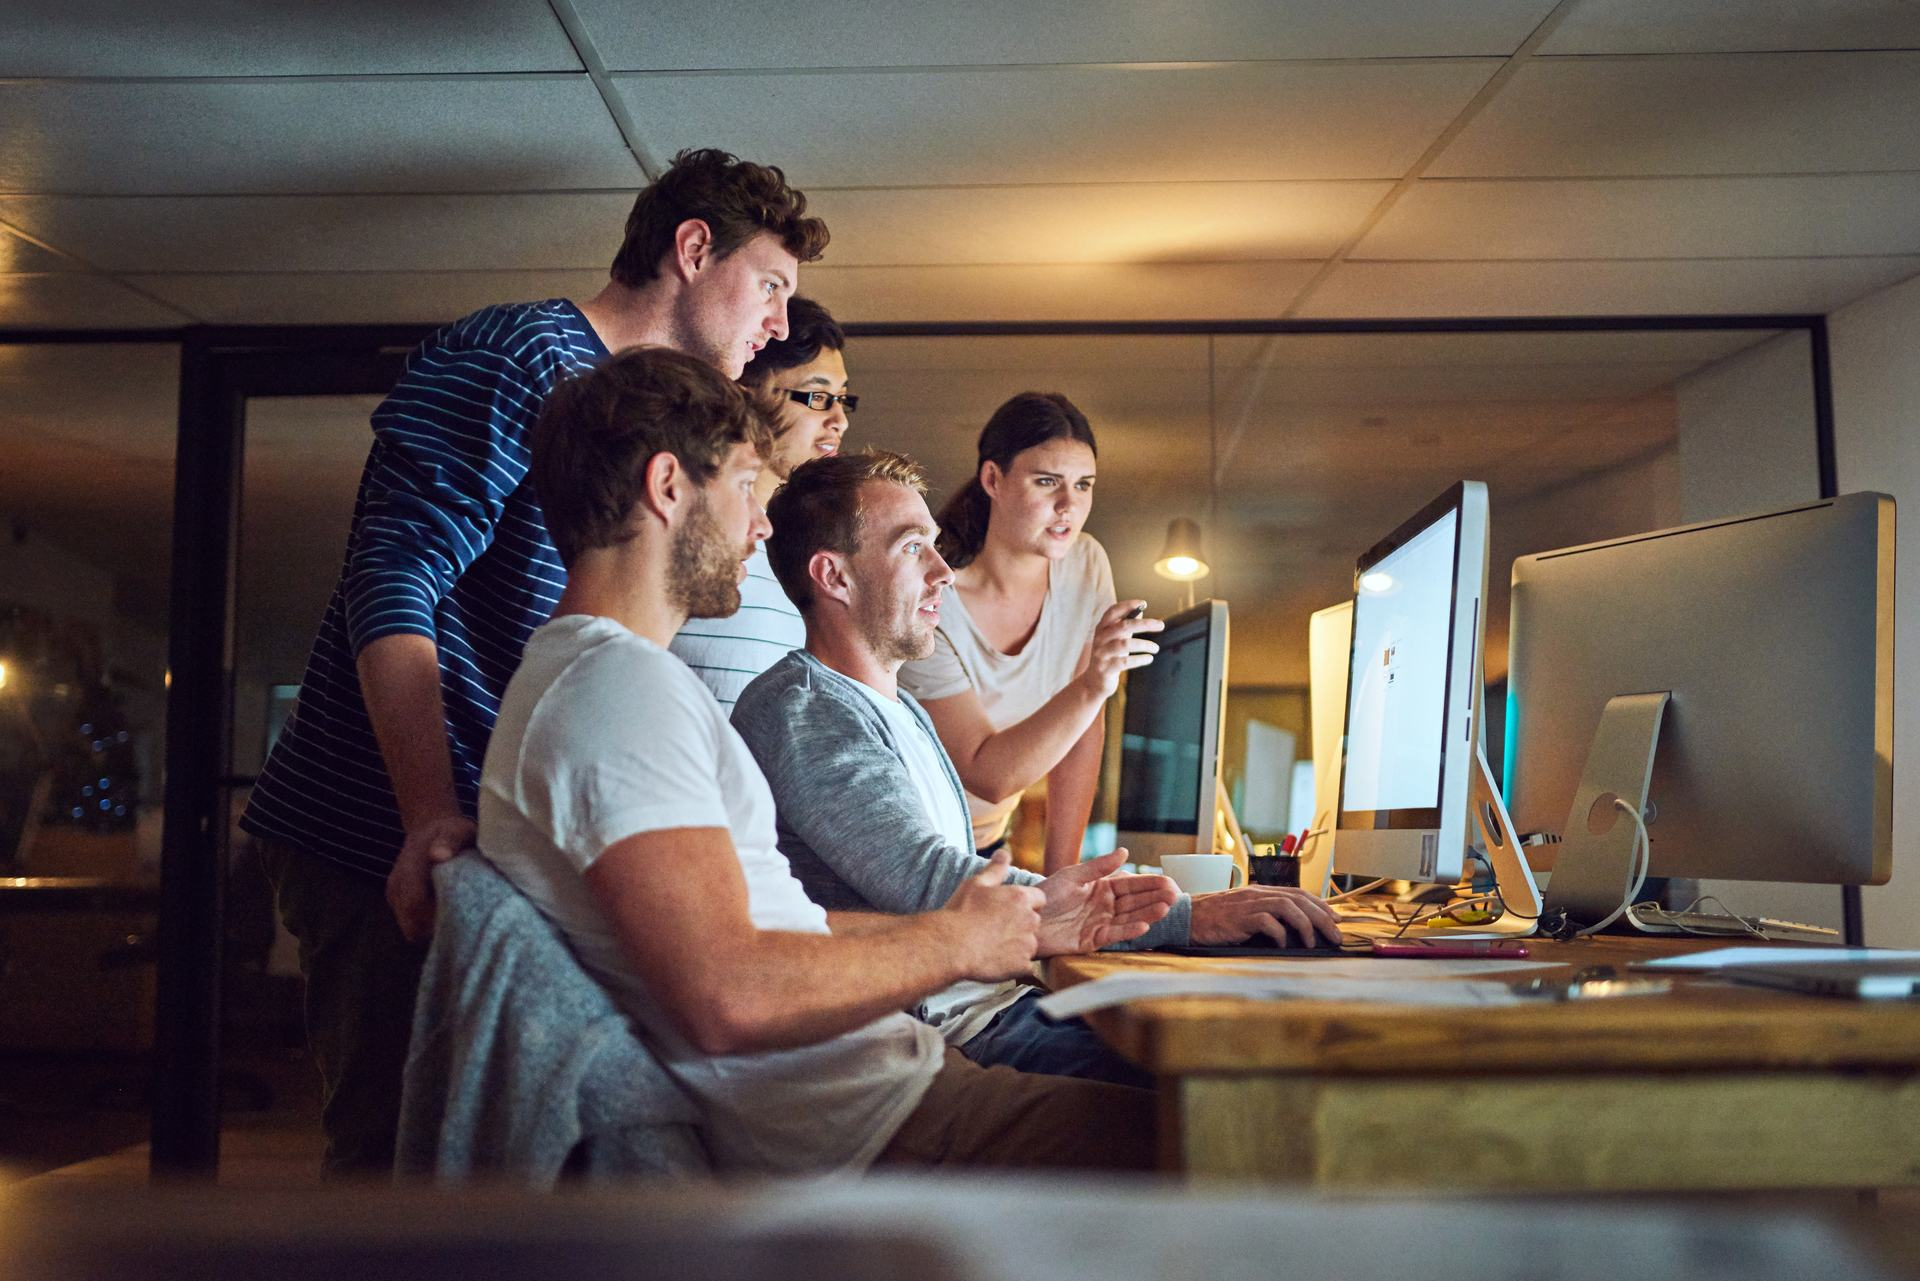
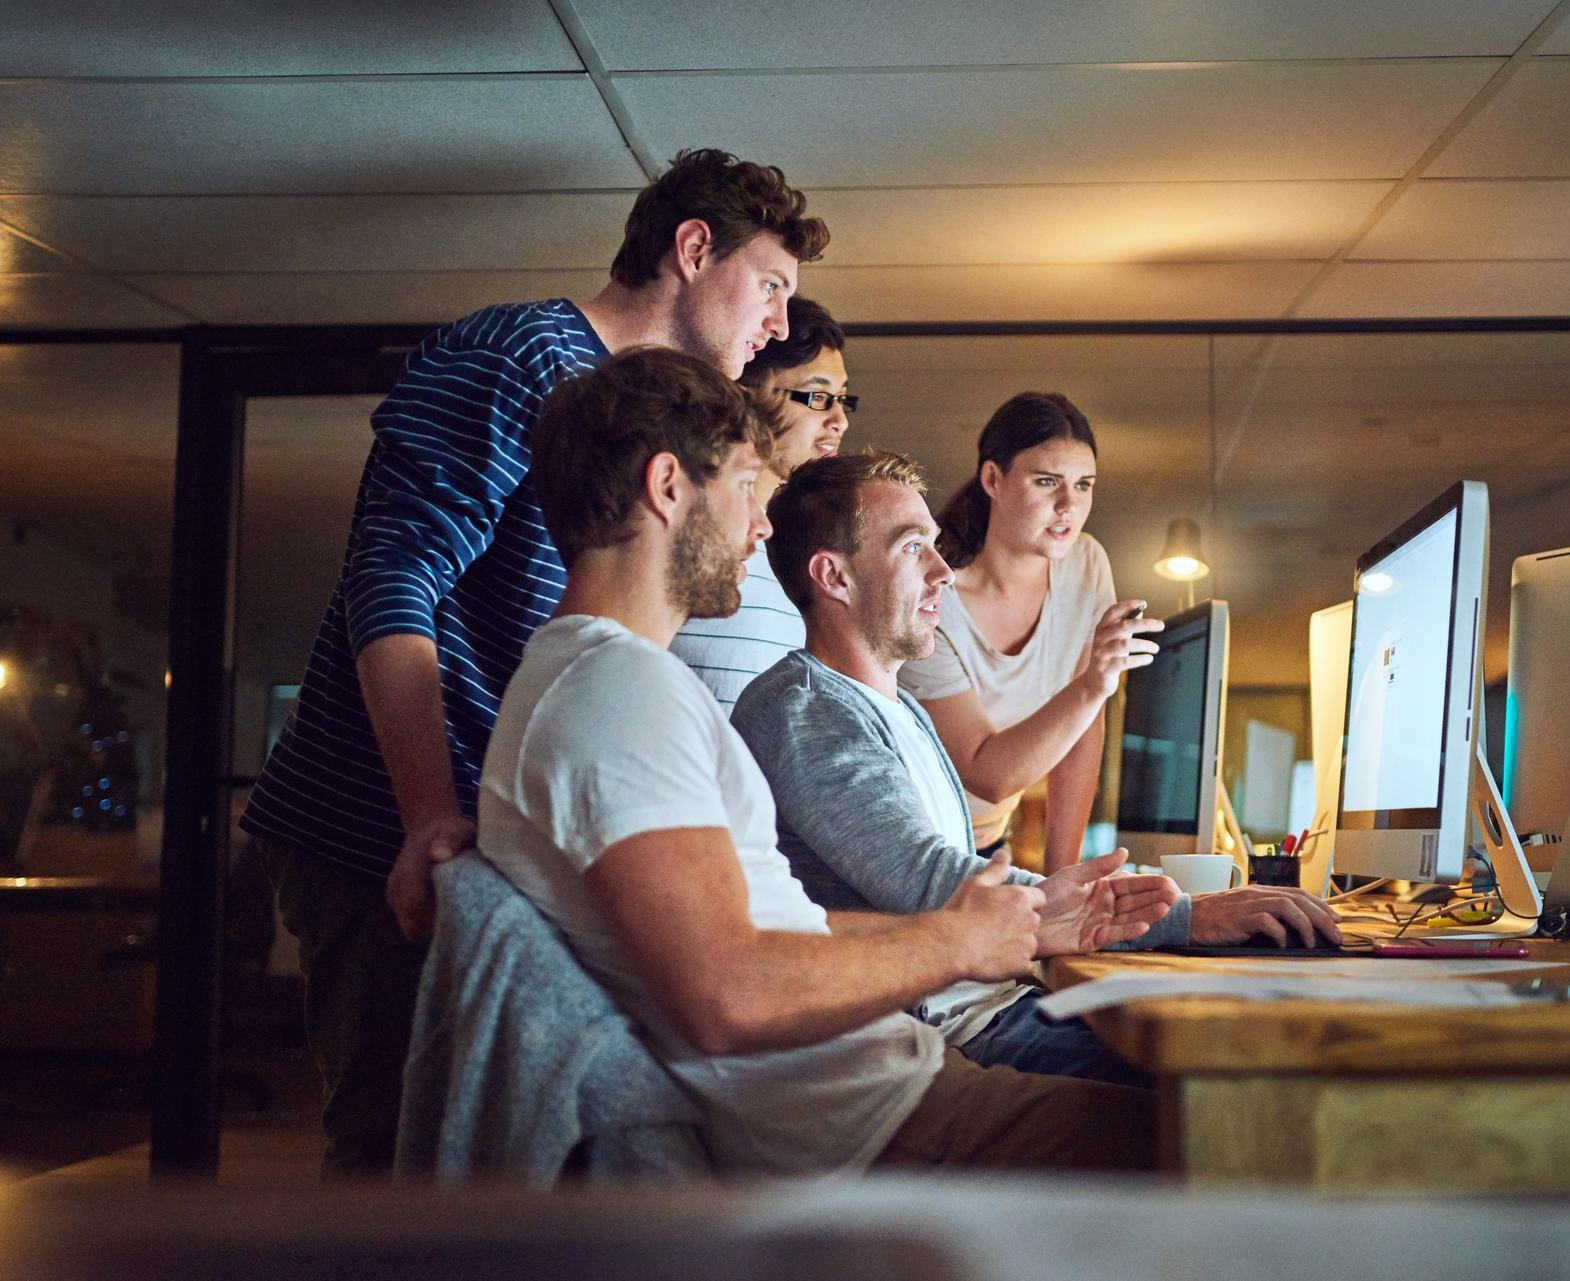
Fixing copy size in heros

diff --git a/app/globals.css b/app/globals.css
@@ -785,7 +785,7 @@ h1,h2{font-weight:400;letter-spacing:-0.01em;line-height:1.1}
 /* Full-bleed video hero (Suki-style): video behind a left-anchored
    scrim, single white headline, transparent nav floats over it. */
 .hero.fb{position:relative;overflow:hidden;background:#080d18;
-  padding:85px 0 40px;min-height:clamp(620px,92vh,900px);display:flex;align-items:center}
+  padding:124px 0 84px;min-height:clamp(560px,84vh,820px);display:flex;align-items:center}
 .hero.fb::before,.hero.fb::after{display:none}
 .hero.fb .hero-bg{position:absolute;inset:0;z-index:0}
 .hero.fb .hero-bg-el{width:100%;height:100%;object-fit:cover;object-position:center;display:block}
@@ -796,7 +796,7 @@ h1,h2{font-weight:400;letter-spacing:-0.01em;line-height:1.1}
     linear-gradient(0deg,rgba(8,13,24,.55) 0%,rgba(8,13,24,0) 42%)}
 .hero.fb .wrap{position:relative;z-index:2;width:100%}
 .hero.fb .fbcopy{max-width:44rem}
-.hero.fb h1{color:#fff;font-size:var(--fs-display);font-weight:600;line-height:1.06;
+.hero.fb h1{color:#fff;font-size:clamp(1.95rem,1.45rem + 1.85vw,3.0rem);font-weight:600;line-height:1.1;
   letter-spacing:-0.02em;max-width:20ch}
 .hero.fb .sub{color:rgba(255,255,255,.82);font-size:var(--fs-lead);
   line-height:1.55;margin-top:22px;max-width:42ch}
@@ -804,10 +804,14 @@ h1,h2{font-weight:400;letter-spacing:-0.01em;line-height:1.1}
 .hero.fb .cta .btn{padding:14px 22px;font-size:1rem}
 .hero.fb .btn-ghost{border-color:rgba(255,255,255,.42);color:#fff;background:transparent}
 .hero.fb .btn-ghost:hover{border-color:#fff;background:rgba(255,255,255,.10);color:#fff}
-/* Inner-page image heroes (Platform/Company/Contact) sit shorter than the Home video hero */
-.hero.fb.bleedhead{min-height:clamp(420px,58vh,600px)}
+/* Inner-page image heroes (Platform/Company/Contact) sit shorter than the Home
+   video hero, with generous top/bottom breathing room. The headline size is
+   inherited from .hero.fb h1 (restrained clamp) so it reads as a page header
+   rather than oversized hero text at every breakpoint. */
+.hero.fb.bleedhead{min-height:clamp(440px,52vh,580px);padding:132px 0 88px}
 @media (max-width:760px){
   .hero.fb{min-height:auto;padding:118px 0 84px}
+  .hero.fb.bleedhead{min-height:auto;padding:112px 0 72px}
   .hero.fb .fbcopy{max-width:none}
   .hero.fb .hero-scrim{background:linear-gradient(0deg,rgba(8,13,24,.86) 0%,rgba(8,13,24,.52) 48%,rgba(8,13,24,.6) 100%)}
 }
